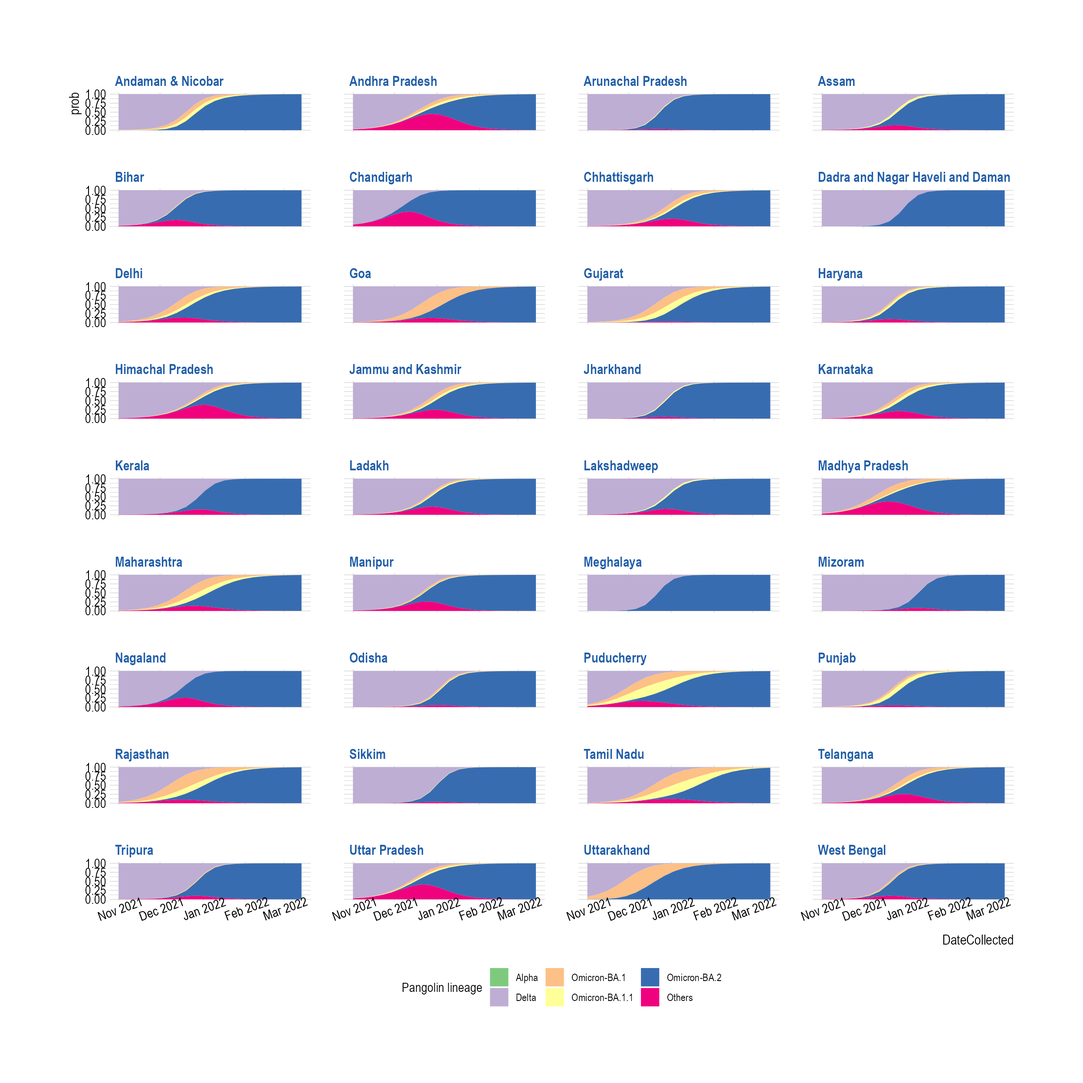
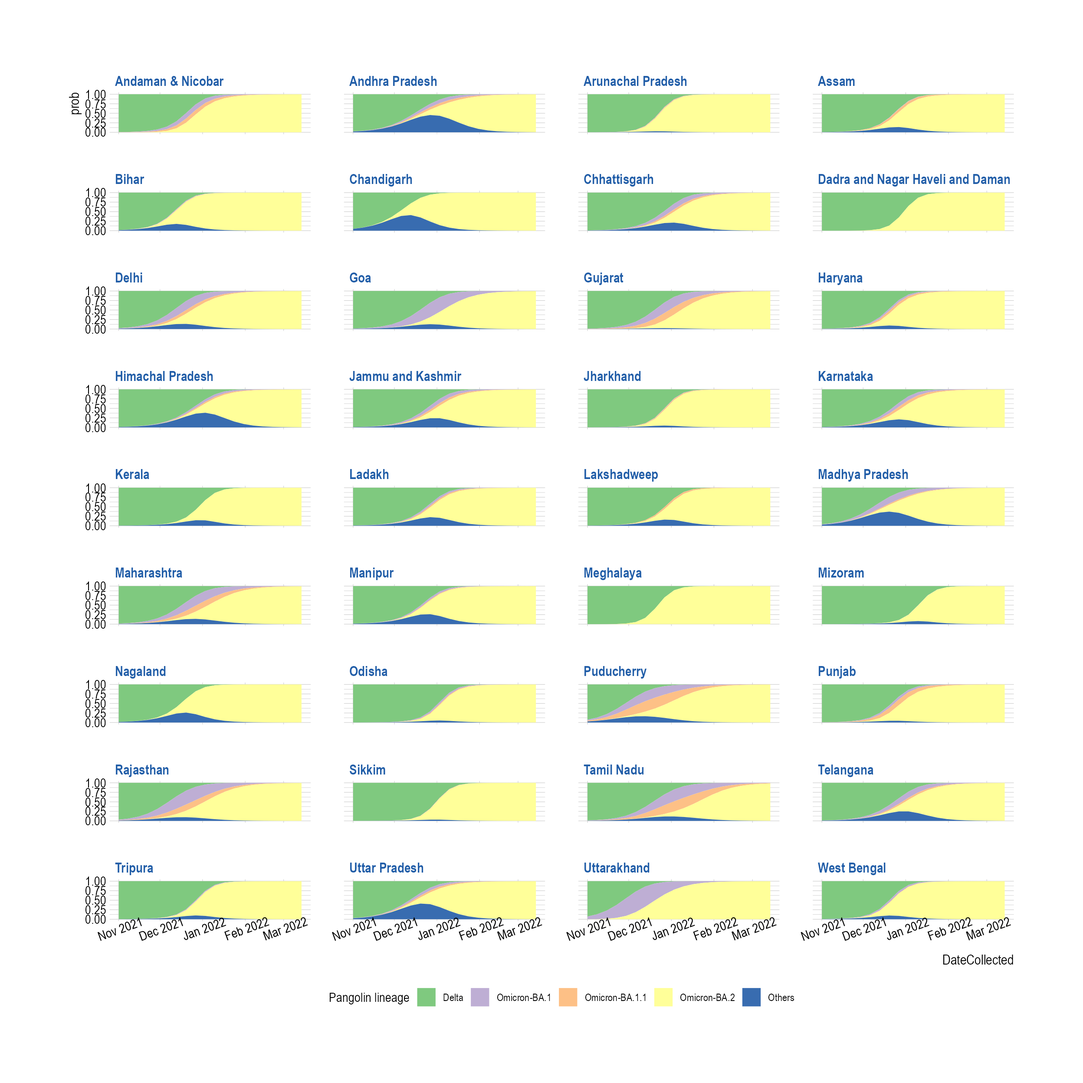
Threshold variants based on total counts

diff --git a/docs/articles/MultinomialModeling_Canada.html b/docs/articles/MultinomialModeling_Canada.html
@@ -1,0 +1,191 @@
+<!DOCTYPE html>
+<!-- Generated by pkgdown: do not edit by hand --><html lang="en">
+<head>
+<meta http-equiv="Content-Type" content="text/html; charset=UTF-8">
+<meta charset="utf-8">
+<meta http-equiv="X-UA-Compatible" content="IE=edge">
+<meta name="viewport" content="width=device-width, initial-scale=1, shrink-to-fit=no">
+<meta name="description" content="epicovr">
+<title>Multinomial modeling - Canada • epicovr</title>
+<script src="../deps/jquery-3.6.0/jquery-3.6.0.min.js"></script><meta name="viewport" content="width=device-width, initial-scale=1, shrink-to-fit=no">
+<link href="../deps/bootstrap-5.1.0/bootstrap.min.css" rel="stylesheet">
+<script src="../deps/bootstrap-5.1.0/bootstrap.bundle.min.js"></script><!-- Font Awesome icons --><link rel="stylesheet" href="https://cdnjs.cloudflare.com/ajax/libs/font-awesome/5.12.1/css/all.min.css" integrity="sha256-mmgLkCYLUQbXn0B1SRqzHar6dCnv9oZFPEC1g1cwlkk=" crossorigin="anonymous">
+<link rel="stylesheet" href="https://cdnjs.cloudflare.com/ajax/libs/font-awesome/5.12.1/css/v4-shims.min.css" integrity="sha256-wZjR52fzng1pJHwx4aV2AO3yyTOXrcDW7jBpJtTwVxw=" crossorigin="anonymous">
+<!-- bootstrap-toc --><script src="https://cdn.rawgit.com/afeld/bootstrap-toc/v1.0.1/dist/bootstrap-toc.min.js"></script><!-- headroom.js --><script src="https://cdnjs.cloudflare.com/ajax/libs/headroom/0.11.0/headroom.min.js" integrity="sha256-AsUX4SJE1+yuDu5+mAVzJbuYNPHj/WroHuZ8Ir/CkE0=" crossorigin="anonymous"></script><script src="https://cdnjs.cloudflare.com/ajax/libs/headroom/0.11.0/jQuery.headroom.min.js" integrity="sha256-ZX/yNShbjqsohH1k95liqY9Gd8uOiE1S4vZc+9KQ1K4=" crossorigin="anonymous"></script><!-- clipboard.js --><script src="https://cdnjs.cloudflare.com/ajax/libs/clipboard.js/2.0.6/clipboard.min.js" integrity="sha256-inc5kl9MA1hkeYUt+EC3BhlIgyp/2jDIyBLS6k3UxPI=" crossorigin="anonymous"></script><!-- search --><script src="https://cdnjs.cloudflare.com/ajax/libs/fuse.js/6.4.6/fuse.js" integrity="sha512-zv6Ywkjyktsohkbp9bb45V6tEMoWhzFzXis+LrMehmJZZSys19Yxf1dopHx7WzIKxr5tK2dVcYmaCk2uqdjF4A==" crossorigin="anonymous"></script><script src="https://cdnjs.cloudflare.com/ajax/libs/autocomplete.js/0.38.0/autocomplete.jquery.min.js" integrity="sha512-GU9ayf+66Xx2TmpxqJpliWbT5PiGYxpaG8rfnBEk1LL8l1KGkRShhngwdXK1UgqhAzWpZHSiYPc09/NwDQIGyg==" crossorigin="anonymous"></script><script src="https://cdnjs.cloudflare.com/ajax/libs/mark.js/8.11.1/mark.min.js" integrity="sha512-5CYOlHXGh6QpOFA/TeTylKLWfB3ftPsde7AnmhuitiTX4K5SqCLBeKro6sPS8ilsz1Q4NRx3v8Ko2IBiszzdww==" crossorigin="anonymous"></script><!-- pkgdown --><script src="../pkgdown.js"></script><meta property="og:title" content="Multinomial modeling - Canada">
+<meta property="og:description" content="epicovr">
+<!-- mathjax --><script src="https://cdnjs.cloudflare.com/ajax/libs/mathjax/2.7.5/MathJax.js" integrity="sha256-nvJJv9wWKEm88qvoQl9ekL2J+k/RWIsaSScxxlsrv8k=" crossorigin="anonymous"></script><script src="https://cdnjs.cloudflare.com/ajax/libs/mathjax/2.7.5/config/TeX-AMS-MML_HTMLorMML.js" integrity="sha256-84DKXVJXs0/F8OTMzX4UR909+jtl4G7SPypPavF+GfA=" crossorigin="anonymous"></script><!--[if lt IE 9]>
+<script src="https://oss.maxcdn.com/html5shiv/3.7.3/html5shiv.min.js"></script>
+<script src="https://oss.maxcdn.com/respond/1.4.2/respond.min.js"></script>
+<![endif]--><!-- Global site tag (gtag.js) - Google Analytics --><script async src="https://www.googletagmanager.com/gtag/js?id=UA-55540107-1"></script><script>
+  window.dataLayer = window.dataLayer || [];
+  function gtag(){dataLayer.push(arguments);}
+  gtag('js', new Date());
+
+  gtag('config', 'UA-55540107-1');
+</script>
+</head>
+<body>
+    <a href="#main" class="visually-hidden-focusable">Skip to contents</a>
+    
+
+    <nav class="navbar fixed-top navbar-light navbar-expand-lg bg-light"><div class="container">
+    
+    <a class="navbar-brand me-2" href="../index.html">epicovr</a>
+
+    <small class="nav-text text-muted me-auto" data-bs-toggle="tooltip" data-bs-placement="bottom" title="">0.1.0</small>
+
+    
+    <button class="navbar-toggler" type="button" data-bs-toggle="collapse" data-bs-target="#navbar" aria-controls="navbar" aria-expanded="false" aria-label="Toggle navigation">
+      <span class="navbar-toggler-icon"></span>
+    </button>
+
+    <div id="navbar" class="collapse navbar-collapse ms-3">
+      <ul class="navbar-nav me-auto">
+<li class="nav-item">
+  <a class="nav-link" href="../reference/index.html">Reference</a>
+</li>
+<li class="active nav-item dropdown">
+  <a href="#" class="nav-link dropdown-toggle" data-bs-toggle="dropdown" role="button" aria-expanded="false" aria-haspopup="true" id="dropdown-articles">Articles</a>
+  <div class="dropdown-menu" aria-labelledby="dropdown-articles">
+    <a class="dropdown-item" href="../articles/Introduction.html">Introduction to epicovr</a>
+    <a class="dropdown-item" href="../articles/MultinomialModeling_Canada.html">Multinomial modeling - Canada</a>
+    <a class="dropdown-item" href="../articles/MultinomialModeling_India.html">Multinomial modeling - India</a>
+    <a class="dropdown-item" href="../articles/MultinomialModeling_USA.html">Multinomial modeling - USA</a>
+    <a class="dropdown-item" href="../articles/VariantAnimation.html">Animation of projected weekly cases</a>
+  </div>
+</li>
+      </ul>
+<form class="form-inline my-2 my-lg-0" role="search">
+        <input type="search" class="form-control me-sm-2" aria-label="Toggle navigation" name="search-input" data-search-index="../search.json" id="search-input" placeholder="Search for" autocomplete="off">
+</form>
+
+      <ul class="navbar-nav">
+<li class="nav-item">
+  <a class="external-link nav-link" href="https://github.com/saketkc/epicovr/" aria-label="github">
+    <span class="fab fa fab fa-github fa-lg"></span>
+     
+  </a>
+</li>
+      </ul>
+</div>
+
+    
+  </div>
+</nav><div class="container template-article">
+
+
+
+
+<div class="row">
+  <main id="main"><div class="page-header">
+      <img src="" class="logo" alt=""><h1>Multinomial modeling - Canada</h1>
+            
+      
+      <small class="dont-index">Source: <a href="https://github.com/saketkc/epicovr/blob/HEAD/vignettes/MultinomialModeling_Canada.Rmd" class="external-link"><code>vignettes/MultinomialModeling_Canada.Rmd</code></a></small>
+      <div class="d-none name"><code>MultinomialModeling_Canada.Rmd</code></div>
+    </div>
+
+    
+    
+<div class="sourceCode" id="cb1"><pre class="downlit sourceCode r">
+<code class="sourceCode R"><span class="fu"><a href="https://rdrr.io/r/base/message.html" class="external-link">suppressPackageStartupMessages</a></span><span class="op">(</span><span class="op">{</span>
+  <span class="kw"><a href="https://rdrr.io/r/base/library.html" class="external-link">library</a></span><span class="op">(</span><span class="va"><a href="https://saketkc.github.io/epicovr" class="external-link">epicovr</a></span><span class="op">)</span>
+  <span class="kw"><a href="https://rdrr.io/r/base/library.html" class="external-link">library</a></span><span class="op">(</span><span class="va"><a href="https://tidyverse.tidyverse.org" class="external-link">tidyverse</a></span><span class="op">)</span>
+<span class="op">}</span><span class="op">)</span>
+<span class="fu"><a href="https://ggplot2.tidyverse.org/reference/theme_get.html" class="external-link">theme_set</a></span><span class="op">(</span><span class="fu"><a href="../reference/EpicovrTheme.html">EpicovrTheme</a></span><span class="op">(</span><span class="op">)</span><span class="op">)</span></code></pre></div>
+<div class="sourceCode" id="cb2"><pre class="downlit sourceCode r">
+<code class="sourceCode R"><span class="va">gisaid_canada_collapsed</span> <span class="op">&lt;-</span> <span class="fu"><a href="../reference/CollapseLineageToVOCs.html">CollapseLineageToVOCs</a></span><span class="op">(</span>
+  variant_df <span class="op">=</span> <span class="va">gisaid_canada</span>,
+  vocs <span class="op">=</span> <span class="va">vocs</span>,
+  custom_voc_mapping <span class="op">=</span> <span class="va">custom_voc_mapping</span>,
+  summarize <span class="op">=</span> <span class="cn">FALSE</span>
+<span class="op">)</span>
+
+<span class="va">gisaid_canada_collapsed_sel</span> <span class="op">&lt;-</span> <span class="va">gisaid_canada_collapsed</span> <span class="op"><a href="https://magrittr.tidyverse.org/reference/pipe.html" class="external-link">%&gt;%</a></span> <span class="fu"><a href="https://dplyr.tidyverse.org/reference/filter.html" class="external-link">filter</a></span><span class="op">(</span><span class="va">MonthYearCollected</span> <span class="op">&gt;=</span> <span class="st">"Nov 2021"</span><span class="op">)</span>
+
+<span class="va">vocs_to_keep</span> <span class="op">&lt;-</span> <span class="fu"><a href="https://rdrr.io/r/base/table.html" class="external-link">table</a></span><span class="op">(</span><span class="va">gisaid_canada_collapsed_sel</span><span class="op">$</span><span class="va">lineage_collapsed</span><span class="op">)</span>
+<span class="va">vocs_to_keep</span> <span class="op">&lt;-</span> <span class="va">vocs_to_keep</span><span class="op">[</span><span class="va">vocs_to_keep</span> <span class="op">&gt;</span> <span class="fl">100</span><span class="op">]</span>
+
+<span class="va">gisaid_canada_collapsed_sel</span> <span class="op">&lt;-</span> <span class="va">gisaid_canada_collapsed_sel</span> <span class="op"><a href="https://magrittr.tidyverse.org/reference/pipe.html" class="external-link">%&gt;%</a></span> <span class="fu"><a href="https://dplyr.tidyverse.org/reference/filter.html" class="external-link">filter</a></span><span class="op">(</span><span class="va">lineage_collapsed</span> <span class="op"><a href="https://rdrr.io/r/base/match.html" class="external-link">%in%</a></span> <span class="fu"><a href="https://rdrr.io/r/base/names.html" class="external-link">names</a></span><span class="op">(</span><span class="va">vocs_to_keep</span><span class="op">)</span><span class="op">)</span>
+<span class="va">gisaid_canada_shared_dateweek</span> <span class="op">&lt;-</span> <span class="fu"><a href="../reference/SummarizeVariantsDatewise.html">SummarizeVariantsDatewise</a></span><span class="op">(</span><span class="va">gisaid_canada_collapsed_sel</span>, by_state <span class="op">=</span> <span class="cn">TRUE</span><span class="op">)</span>
+<span class="fu"><a href="https://rdrr.io/r/utils/head.html" class="external-link">head</a></span><span class="op">(</span><span class="va">gisaid_canada_shared_dateweek</span><span class="op">)</span></code></pre></div>
+<pre><code><span class="co">## <span style="color: #949494;"># A tibble: 6 × 4</span></span>
+<span class="co">##   State   DateCollectedNumeric lineage_collapsed     n</span>
+<span class="co">##   <span style="color: #949494; font-style: italic;">&lt;chr&gt;</span>                  <span style="color: #949494; font-style: italic;">&lt;dbl&gt;</span> <span style="color: #949494; font-style: italic;">&lt;chr&gt;</span>             <span style="color: #949494; font-style: italic;">&lt;int&gt;</span></span>
+<span class="co">## <span style="color: #BCBCBC;">1</span> Alberta                <span style="text-decoration: underline;">18</span>932 Delta               134</span>
+<span class="co">## <span style="color: #BCBCBC;">2</span> Alberta                <span style="text-decoration: underline;">18</span>933 Delta                98</span>
+<span class="co">## <span style="color: #BCBCBC;">3</span> Alberta                <span style="text-decoration: underline;">18</span>934 Delta                94</span>
+<span class="co">## <span style="color: #BCBCBC;">4</span> Alberta                <span style="text-decoration: underline;">18</span>935 Delta                96</span>
+<span class="co">## <span style="color: #BCBCBC;">5</span> Alberta                <span style="text-decoration: underline;">18</span>936 Delta                66</span>
+<span class="co">## <span style="color: #BCBCBC;">6</span> Alberta                <span style="text-decoration: underline;">18</span>937 Delta                54</span></code></pre>
+<div class="sourceCode" id="cb4"><pre class="downlit sourceCode r">
+<code class="sourceCode R"><span class="va">fit_canada_multi_predsbystate</span> <span class="op">&lt;-</span> <span class="fu">FitMultinomStatewiseDaily</span><span class="op">(</span><span class="va">gisaid_canada_shared_dateweek</span><span class="op">)</span></code></pre></div>
+<pre><code><span class="co">## # weights:  55 (40 variable)</span>
+<span class="co">## initial  value 135804.371051 </span>
+<span class="co">## iter  10 value 109745.664623</span>
+<span class="co">## iter  20 value 108180.399735</span>
+<span class="co">## iter  30 value 105351.173367</span>
+<span class="co">## iter  40 value 95032.147334</span>
+<span class="co">## iter  50 value 78830.314456</span>
+<span class="co">## iter  60 value 69273.227054</span>
+<span class="co">## iter  70 value 64598.971900</span>
+<span class="co">## iter  80 value 64156.774789</span>
+<span class="co">## iter  90 value 63920.603272</span>
+<span class="co">## iter 100 value 63858.219016</span>
+<span class="co">## iter 110 value 63708.522321</span>
+<span class="co">## iter 120 value 63676.853559</span>
+<span class="co">## iter 130 value 63559.770433</span>
+<span class="co">## iter 140 value 63499.339506</span>
+<span class="co">## iter 150 value 63399.391924</span>
+<span class="co">## iter 160 value 63387.966552</span>
+<span class="co">## final  value 63385.953540 </span>
+<span class="co">## converged</span></code></pre>
+<div class="sourceCode" id="cb6"><pre class="downlit sourceCode r">
+<code class="sourceCode R"><span class="fu"><a href="https://rdrr.io/r/utils/head.html" class="external-link">head</a></span><span class="op">(</span><span class="va">fit_canada_multi_predsbystate</span><span class="op">)</span></code></pre></div>
+<pre><code><span class="co">##   lineage_collapsed DateCollectedNumeric   State         prob           SE df</span>
+<span class="co">## 1             Delta                18932 Alberta 9.987352e-01 2.547349e-05 NA</span>
+<span class="co">## 2      Omicron-BA.1                18932 Alberta 1.741814e-04 2.516797e-06 NA</span>
+<span class="co">## 3    Omicron-BA.1.1                18932 Alberta 1.768073e-05 2.744971e-07 NA</span>
+<span class="co">## 4      Omicron-BA.2                18932 Alberta 4.613764e-08 1.133801e-09 NA</span>
+<span class="co">## 5            Others                18932 Alberta 1.072925e-03 2.486669e-05 NA</span>
+<span class="co">## 6             Delta                18939 Alberta 9.979724e-01 3.361030e-05 NA</span>
+<span class="co">##      asymp.LCL    asymp.UCL DateCollected</span>
+<span class="co">## 1 9.986852e-01 9.987851e-01    2021-11-01</span>
+<span class="co">## 2 1.692486e-04 1.791142e-04    2021-11-01</span>
+<span class="co">## 3 1.714273e-05 1.821874e-05    2021-11-01</span>
+<span class="co">## 4 4.391543e-08 4.835985e-08    2021-11-01</span>
+<span class="co">## 5 1.024188e-03 1.121663e-03    2021-11-01</span>
+<span class="co">## 6 9.979065e-01 9.980383e-01    2021-11-08</span></code></pre>
+<div class="section level2">
+<h2 id="plot-smooth-muller-plots">Plot Smooth Muller Plots<a class="anchor" aria-label="anchor" href="#plot-smooth-muller-plots"></a>
+</h2>
+<div class="sourceCode" id="cb8"><pre class="downlit sourceCode r">
+<code class="sourceCode R"><span class="va">muller_canadabystate_mfit</span> <span class="op">&lt;-</span> <span class="fu">PlotMullerDailyPrevalence</span><span class="op">(</span><span class="va">fit_canada_multi_predsbystate</span>, ncol <span class="op">=</span> <span class="fl">3</span><span class="op">)</span>
+<span class="va">muller_canadabystate_mfit</span></code></pre></div>
+<p><img src="MultinomialModeling_Canada_files/figure-html/unnamed-chunk-5-1.png" width="1152"></p>
+</div>
+  </main>
+</div>
+
+
+
+    <footer><div class="pkgdown-footer-left">
+  <p></p>
+<p>Developed by Saket Choudhary.</p>
+</div>
+
+<div class="pkgdown-footer-right">
+  <p></p>
+<p>Site built with <a href="https://pkgdown.r-lib.org/" class="external-link">pkgdown</a>
+2.0.2.</p>
+</div>
+
+    </footer>
+</div>
+
+  
+
+  
+
+  </body>
+</html>

diff --git a/docs/articles/MultinomialModeling_India.html b/docs/articles/MultinomialModeling_India.html
@@ -48,6 +48,7 @@
   <a href="#" class="nav-link dropdown-toggle" data-bs-toggle="dropdown" role="button" aria-expanded="false" aria-haspopup="true" id="dropdown-articles">Articles</a>
   <div class="dropdown-menu" aria-labelledby="dropdown-articles">
     <a class="dropdown-item" href="../articles/Introduction.html">Introduction to epicovr</a>
+    <a class="dropdown-item" href="../articles/MultinomialModeling_Canada.html">Multinomial modeling - Canada</a>
     <a class="dropdown-item" href="../articles/MultinomialModeling_India.html">Multinomial modeling - India</a>
     <a class="dropdown-item" href="../articles/MultinomialModeling_USA.html">Multinomial modeling - USA</a>
     <a class="dropdown-item" href="../articles/VariantAnimation.html">Animation of projected weekly cases</a>
@@ -101,6 +102,10 @@
 <span class="op">)</span>
 
 <span class="va">gisaid_india_collapsed_sel</span> <span class="op">&lt;-</span> <span class="va">gisaid_india_collapsed</span> <span class="op"><a href="https://magrittr.tidyverse.org/reference/pipe.html" class="external-link">%&gt;%</a></span> <span class="fu"><a href="https://dplyr.tidyverse.org/reference/filter.html" class="external-link">filter</a></span><span class="op">(</span><span class="va">MonthYearCollected</span> <span class="op">&gt;=</span> <span class="st">"Nov 2021"</span><span class="op">)</span> 
+<span class="va">vocs_to_keep</span> <span class="op">&lt;-</span> <span class="fu"><a href="https://rdrr.io/r/base/table.html" class="external-link">table</a></span><span class="op">(</span><span class="va">gisaid_india_collapsed_sel</span><span class="op">$</span><span class="va">lineage_collapsed</span><span class="op">)</span>
+<span class="va">vocs_to_keep</span> <span class="op">&lt;-</span> <span class="va">vocs_to_keep</span><span class="op">[</span><span class="va">vocs_to_keep</span> <span class="op">&gt;</span> <span class="fl">100</span><span class="op">]</span>
+
+<span class="va">gisaid_india_collapsed_sel</span> <span class="op">&lt;-</span> <span class="va">gisaid_india_collapsed_sel</span> <span class="op"><a href="https://magrittr.tidyverse.org/reference/pipe.html" class="external-link">%&gt;%</a></span> <span class="fu"><a href="https://dplyr.tidyverse.org/reference/filter.html" class="external-link">filter</a></span><span class="op">(</span><span class="va">lineage_collapsed</span> <span class="op"><a href="https://rdrr.io/r/base/match.html" class="external-link">%in%</a></span> <span class="fu"><a href="https://rdrr.io/r/base/names.html" class="external-link">names</a></span><span class="op">(</span><span class="va">vocs_to_keep</span><span class="op">)</span><span class="op">)</span>
 
 <span class="va">gisaid_india_shared_dateweek</span> <span class="op">&lt;-</span> <span class="fu"><a href="../reference/SummarizeVariantsDatewise.html">SummarizeVariantsDatewise</a></span><span class="op">(</span><span class="va">gisaid_india_collapsed_sel</span>, by_state <span class="op">=</span> <span class="cn">TRUE</span><span class="op">)</span>
 <span class="fu"><a href="https://rdrr.io/r/utils/head.html" class="external-link">head</a></span><span class="op">(</span><span class="va">gisaid_india_shared_dateweek</span><span class="op">)</span></code></pre></div>
@@ -115,44 +120,45 @@
 <span class="co">## <span style="color: #BCBCBC;">6</span> Andaman &amp; Nicobar                <span style="text-decoration: underline;">18</span>984 Omicron-BA.1          2</span></code></pre>
 <div class="sourceCode" id="cb4"><pre class="downlit sourceCode r">
 <code class="sourceCode R"><span class="va">fit_india_multi_predsbystate</span> <span class="op">&lt;-</span> <span class="fu">FitMultinomStatewiseDaily</span><span class="op">(</span><span class="va">gisaid_india_shared_dateweek</span><span class="op">)</span></code></pre></div>
-<pre><code><span class="co">## # weights:  228 (185 variable)</span>
-<span class="co">## initial  value 100876.058118 </span>
-<span class="co">## iter  10 value 69827.547905</span>
-<span class="co">## iter  20 value 67575.995069</span>
-<span class="co">## iter  30 value 66314.352130</span>
-<span class="co">## iter  40 value 64332.664218</span>
-<span class="co">## iter  50 value 62264.044989</span>
-<span class="co">## iter  60 value 59695.922503</span>
-<span class="co">## iter  70 value 56873.325844</span>
-<span class="co">## iter  80 value 50274.930002</span>
-<span class="co">## iter  90 value 46062.705976</span>
-<span class="co">## iter 100 value 43514.545245</span>
-<span class="co">## iter 110 value 42756.014925</span>
-<span class="co">## iter 120 value 42421.870083</span>
-<span class="co">## iter 130 value 42178.677461</span>
-<span class="co">## iter 140 value 42057.503534</span>
-<span class="co">## iter 150 value 42020.350757</span>
-<span class="co">## iter 160 value 41986.935411</span>
-<span class="co">## iter 170 value 41982.537088</span>
-<span class="co">## iter 180 value 41982.255518</span>
-<span class="co">## final  value 41982.176774 </span>
+<pre><code><span class="co">## # weights:  190 (148 variable)</span>
+<span class="co">## initial  value 90608.135594 </span>
+<span class="co">## iter  10 value 66300.158074</span>
+<span class="co">## iter  20 value 65210.865127</span>
+<span class="co">## iter  30 value 63930.601290</span>
+<span class="co">## iter  40 value 62966.129033</span>
+<span class="co">## iter  50 value 61535.109224</span>
+<span class="co">## iter  60 value 59153.837246</span>
+<span class="co">## iter  70 value 53855.106834</span>
+<span class="co">## iter  80 value 50807.858791</span>
+<span class="co">## iter  90 value 49161.629209</span>
+<span class="co">## iter 100 value 48264.660224</span>
+<span class="co">## iter 110 value 47787.995871</span>
+<span class="co">## iter 120 value 46169.294677</span>
+<span class="co">## iter 130 value 44403.373905</span>
+<span class="co">## iter 140 value 42745.522413</span>
+<span class="co">## iter 150 value 42432.070559</span>
+<span class="co">## iter 160 value 42198.854949</span>
+<span class="co">## iter 170 value 42099.530107</span>
+<span class="co">## iter 180 value 41966.480032</span>
+<span class="co">## iter 190 value 41963.542150</span>
+<span class="co">## final  value 41963.532234 </span>
 <span class="co">## converged</span></code></pre>
 <div class="sourceCode" id="cb6"><pre class="downlit sourceCode r">
 <code class="sourceCode R"><span class="fu"><a href="https://rdrr.io/r/utils/head.html" class="external-link">head</a></span><span class="op">(</span><span class="va">fit_india_multi_predsbystate</span><span class="op">)</span></code></pre></div>
 <pre><code><span class="co">##   lineage_collapsed DateCollectedNumeric             State         prob</span>
-<span class="co">## 1             Alpha                18932 Andaman &amp; Nicobar 5.800215e-13</span>
-<span class="co">## 2             Delta                18932 Andaman &amp; Nicobar 9.953286e-01</span>
-<span class="co">## 3      Omicron-BA.1                18932 Andaman &amp; Nicobar 3.028760e-03</span>
-<span class="co">## 4    Omicron-BA.1.1                18932 Andaman &amp; Nicobar 1.557628e-03</span>
-<span class="co">## 5      Omicron-BA.2                18932 Andaman &amp; Nicobar 8.474155e-05</span>
-<span class="co">## 6            Others                18932 Andaman &amp; Nicobar 2.357113e-07</span>
-<span class="co">##             SE df     asymp.LCL    asymp.UCL DateCollected</span>
-<span class="co">## 1 4.072626e-13 NA -2.181985e-13 1.378242e-12    2021-11-01</span>
-<span class="co">## 2 8.136445e-05 NA  9.951692e-01 9.954881e-01    2021-11-01</span>
-<span class="co">## 3 5.929024e-05 NA  2.912553e-03 3.144966e-03    2021-11-01</span>
-<span class="co">## 4 3.591695e-05 NA  1.487232e-03 1.628024e-03    2021-11-01</span>
-<span class="co">## 5 1.461591e-06 NA  8.187688e-05 8.760621e-05    2021-11-01</span>
-<span class="co">## 6 4.637444e-09 NA  2.266221e-07 2.448005e-07    2021-11-01</span></code></pre>
+<span class="co">## 1             Delta                18932 Andaman &amp; Nicobar 9.953388e-01</span>
+<span class="co">## 2      Omicron-BA.1                18932 Andaman &amp; Nicobar 3.021938e-03</span>
+<span class="co">## 3    Omicron-BA.1.1                18932 Andaman &amp; Nicobar 1.554609e-03</span>
+<span class="co">## 4      Omicron-BA.2                18932 Andaman &amp; Nicobar 8.462076e-05</span>
+<span class="co">## 5            Others                18932 Andaman &amp; Nicobar 3.509172e-17</span>
+<span class="co">## 6             Delta                18939 Andaman &amp; Nicobar 9.908048e-01</span>
+<span class="co">##             SE df    asymp.LCL    asymp.UCL DateCollected</span>
+<span class="co">## 1 8.119169e-05 NA 9.951797e-01 9.954980e-01    2021-11-01</span>
+<span class="co">## 2 5.915885e-05 NA 2.905989e-03 3.137887e-03    2021-11-01</span>
+<span class="co">## 3 3.584820e-05 NA 1.484347e-03 1.624870e-03    2021-11-01</span>
+<span class="co">## 4 1.459593e-06 NA 8.176001e-05 8.748151e-05    2021-11-01</span>
+<span class="co">## 5 6.904107e-19 NA 3.373854e-17 3.644490e-17    2021-11-01</span>
+<span class="co">## 6 1.586157e-04 NA 9.904939e-01 9.911156e-01    2021-11-08</span></code></pre>
 <div class="section level2">
 <h2 id="plot-smooth-muller-plots">Plot Smooth Muller Plots<a class="anchor" aria-label="anchor" href="#plot-smooth-muller-plots"></a>
 </h2>

diff --git a/docs/index.html b/docs/index.html
@@ -50,6 +50,7 @@
   <a href="#" class="nav-link dropdown-toggle" data-bs-toggle="dropdown" role="button" aria-expanded="false" aria-haspopup="true" id="dropdown-articles">Articles</a>
   <div class="dropdown-menu" aria-labelledby="dropdown-articles">
     <a class="dropdown-item" href="articles/Introduction.html">Introduction to epicovr</a>
+    <a class="dropdown-item" href="articles/MultinomialModeling_Canada.html">Multinomial modeling - Canada</a>
     <a class="dropdown-item" href="articles/MultinomialModeling_India.html">Multinomial modeling - India</a>
     <a class="dropdown-item" href="articles/MultinomialModeling_USA.html">Multinomial modeling - USA</a>
     <a class="dropdown-item" href="articles/VariantAnimation.html">Animation of projected weekly cases</a>
@@ -88,7 +89,7 @@ deposited on <a href="https://www.gisaid.org/" class="external-link">GISAID</a>.
 </li>
 <li>Plot variant prevalence: <a href="articles/Introduction.html">Vignette</a>
 </li>
-<li>Fit multinomial models to variant prevalence data: <a href="articles/MultinomialModeling_India.html">India</a> and <a href="articles/MultinomialModeling_USA.html">USA</a>
+<li>Fit multinomial models to variant prevalence data: <a href="articles/MultinomialModeling_India.html">India</a>, <a href="articles/MultinomialModeling_USA.html">USA</a>, <a href="articles/MultinomialModeling_Canada.html">Canada</a>
 </li>
 <li>Estimate totals prevalence of variants by projecting case prevalence
 data on multinomila fits: <a href="articles/VariantAnimation.html">Vignette</a>

diff --git a/docs/articles/index.html b/docs/articles/index.html
@@ -31,6 +31,7 @@
   <a href="#" class="nav-link dropdown-toggle" data-bs-toggle="dropdown" role="button" aria-expanded="false" aria-haspopup="true" id="dropdown-articles">Articles</a>
   <div class="dropdown-menu" aria-labelledby="dropdown-articles">
     <a class="dropdown-item" href="../articles/Introduction.html">Introduction to epicovr</a>
+    <a class="dropdown-item" href="../articles/MultinomialModeling_Canada.html">Multinomial modeling - Canada</a>
     <a class="dropdown-item" href="../articles/MultinomialModeling_India.html">Multinomial modeling - India</a>
     <a class="dropdown-item" href="../articles/MultinomialModeling_USA.html">Multinomial modeling - USA</a>
     <a class="dropdown-item" href="../articles/VariantAnimation.html">Animation of projected weekly cases</a>
@@ -60,6 +61,8 @@
       <p class="section-desc"></p>
 
       <dl><dt><a href="Introduction.html">Introduction to epicovr</a></dt>
+        <dd>
+        </dd><dt><a href="MultinomialModeling_Canada.html">Multinomial modeling - Canada</a></dt>
         <dd>
         </dd><dt><a href="MultinomialModeling_India.html">Multinomial modeling - India</a></dt>
         <dd>

diff --git a/docs/404.html b/docs/404.html
@@ -46,6 +46,7 @@
   <a href="http://saket-choudhary.me/epicovr/#" class="nav-link dropdown-toggle" data-bs-toggle="dropdown" role="button" aria-expanded="false" aria-haspopup="true" id="dropdown-articles">Articles</a>
   <div class="dropdown-menu" aria-labelledby="dropdown-articles">
     <a class="dropdown-item" href="http://saket-choudhary.me/epicovr/articles/Introduction.html">Introduction to epicovr</a>
+    <a class="dropdown-item" href="http://saket-choudhary.me/epicovr/articles/MultinomialModeling_Canada.html">Multinomial modeling - Canada</a>
     <a class="dropdown-item" href="http://saket-choudhary.me/epicovr/articles/MultinomialModeling_India.html">Multinomial modeling - India</a>
     <a class="dropdown-item" href="http://saket-choudhary.me/epicovr/articles/MultinomialModeling_USA.html">Multinomial modeling - USA</a>
     <a class="dropdown-item" href="http://saket-choudhary.me/epicovr/articles/VariantAnimation.html">Animation of projected weekly cases</a>

diff --git a/docs/authors.html b/docs/authors.html
@@ -31,6 +31,7 @@
   <a href="#" class="nav-link dropdown-toggle" data-bs-toggle="dropdown" role="button" aria-expanded="false" aria-haspopup="true" id="dropdown-articles">Articles</a>
   <div class="dropdown-menu" aria-labelledby="dropdown-articles">
     <a class="dropdown-item" href="articles/Introduction.html">Introduction to epicovr</a>
+    <a class="dropdown-item" href="articles/MultinomialModeling_Canada.html">Multinomial modeling - Canada</a>
     <a class="dropdown-item" href="articles/MultinomialModeling_India.html">Multinomial modeling - India</a>
     <a class="dropdown-item" href="articles/MultinomialModeling_USA.html">Multinomial modeling - USA</a>
     <a class="dropdown-item" href="articles/VariantAnimation.html">Animation of projected weekly cases</a>

diff --git a/index.md b/index.md
@@ -9,7 +9,7 @@ Epicovr currently supports the following features:
 
 * Read and preprocess metadata file downloaded from GISAID: [Vignette](articles/Introduction.html)
 * Plot variant prevalence: [Vignette](articles/Introduction.html)
-* Fit multinomial models to variant prevalence data: [India](articles/MultinomialModeling_India.html) and [USA](articles/MultinomialModeling_USA.html)
+* Fit multinomial models to variant prevalence data: [India](articles/MultinomialModeling_India.html), [USA](articles/MultinomialModeling_USA.html), [Canada](articles/MultinomialModeling_Canada.html)
 * Estimate totals prevalence of variants by projecting case prevalence data on multinomila fits:  [Vignette](articles/VariantAnimation.html)
 
 
